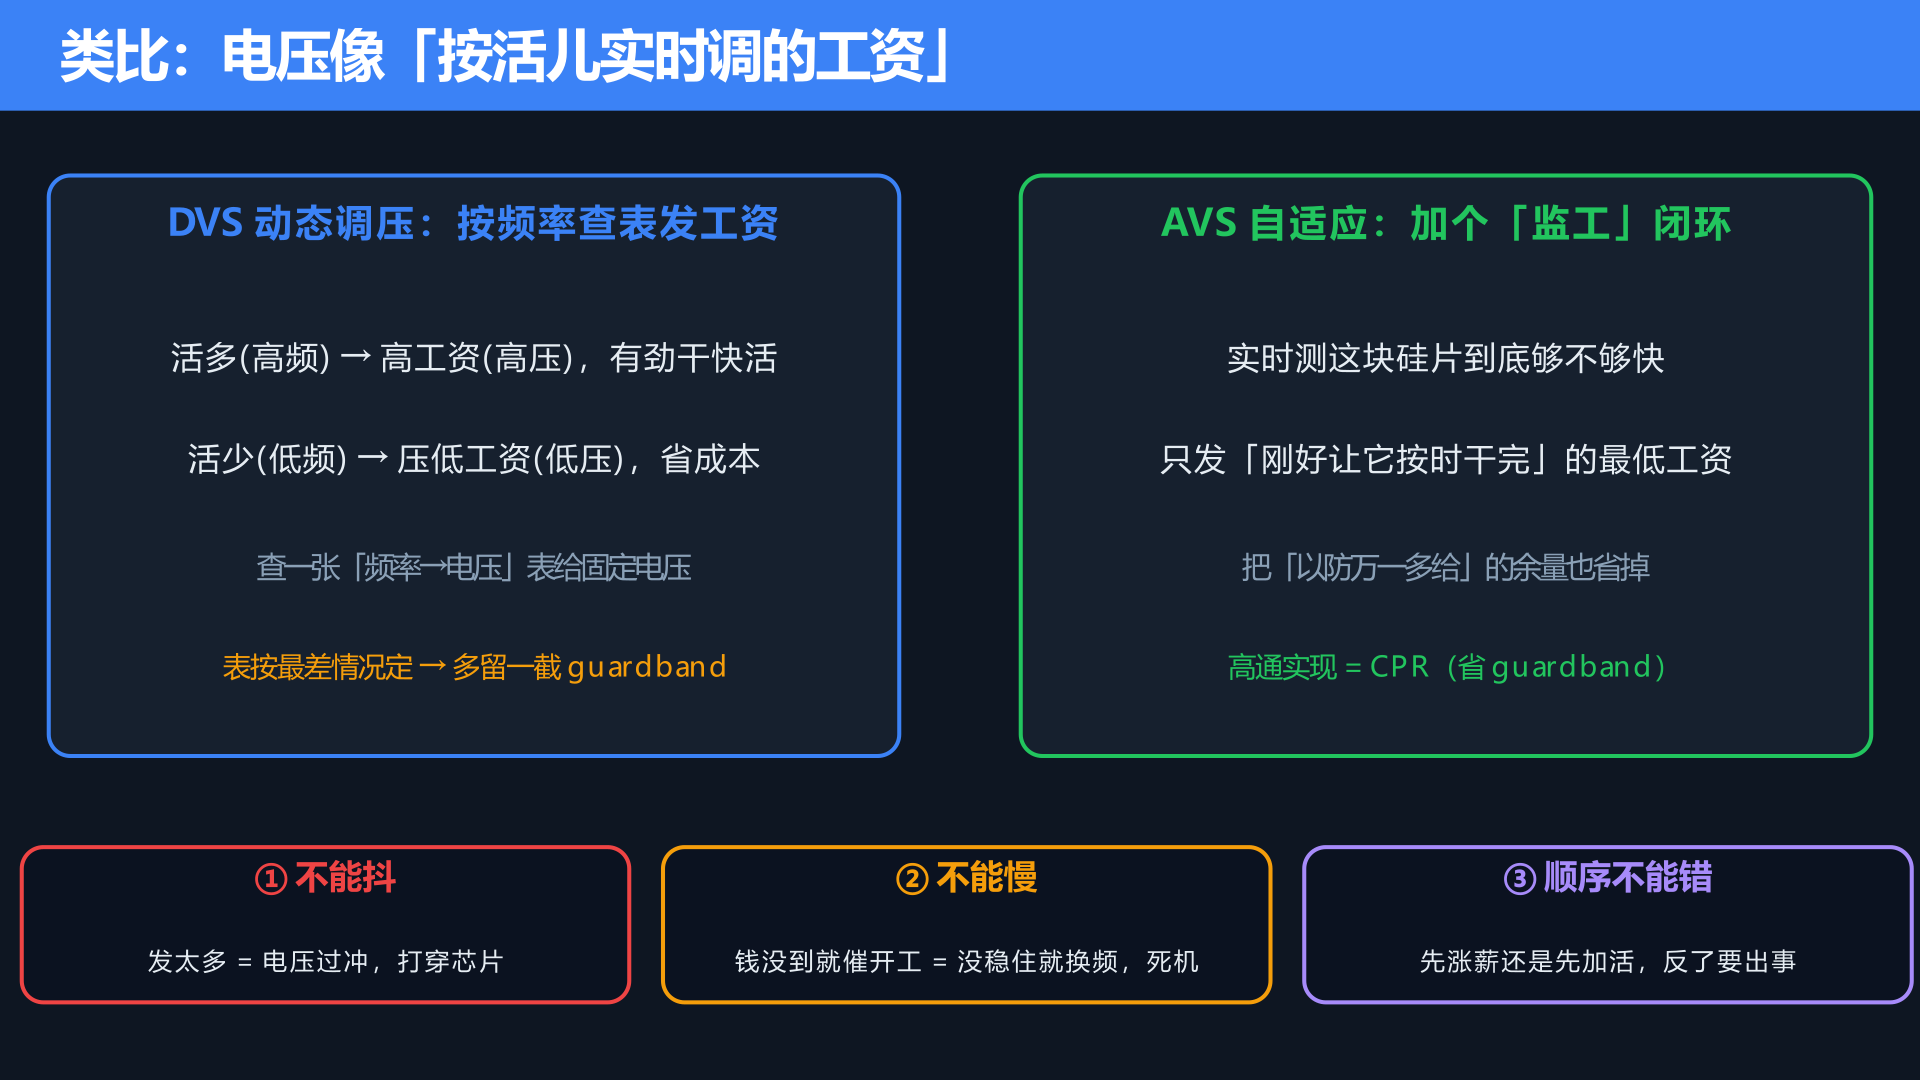
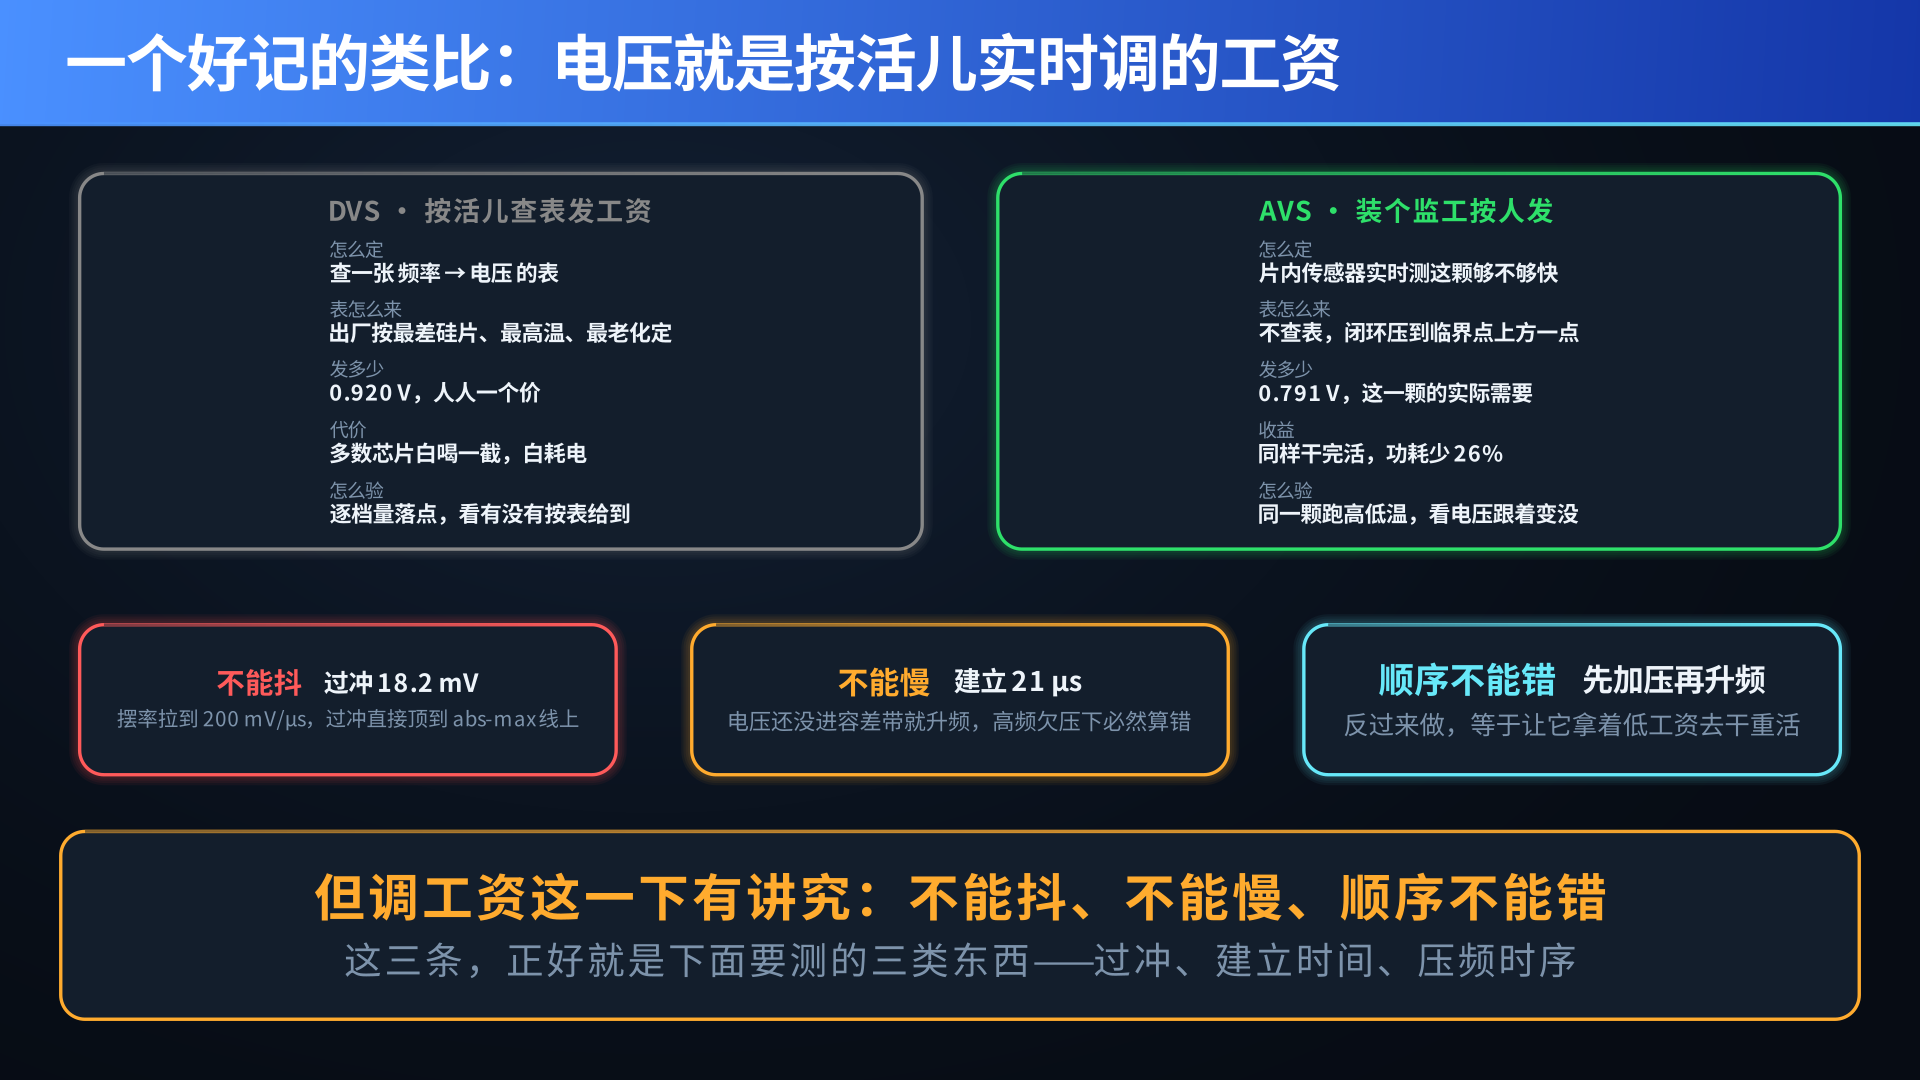
pi01：同步末四张 v3 配图与重写的图注
Copilot-Session: 146125e5-149c-4b5e-aded-743cd7f5dc29

diff --git a/articles/pi01.md b/articles/pi01.md
@@ -58,7 +58,7 @@ outline: [2,3]
 
 但"调工资"这一下有讲究：**①不能抖**（一下发太多——电压过冲，可能打穿芯片）；**②不能慢**（钱还没到账就催开工——电压没稳住就换频，直接死机）；**③顺序不能错**（先涨薪还是先加活，反了要出事）。这三条，正好对应下面要测的三类东西。
 
-![图2：类比图——雇工干活。左：DVS 按活儿多少查表发工资（高频高压/低频低压）；右：AVS 加了个"监工"实时测硅片够不够快，只发最低够用工资，省掉 guardband。下方三条红字警示：①不能抖(过冲) ②不能慢(建立时间) ③顺序不能错(压频时序)](/images/pi01/ill02_analogy.png)
+![图2：DVS 与 AVS 的类比对照。左卡（DVS · 按活儿查表发工资）：查一张频率→电压表，表按最差硅片/最高温/最老化定，人人发 0.920 V，代价是多数芯片白喝一截；右卡（AVS · 装个监工按人发）：片内传感器实时测这颗够不够快，闭环压到 0.791 V，同样干完活功耗少 26%。下方三条警示卡：不能抖（过冲 18.2 mV）、不能慢（建立 21 µs）、顺序不能错（先加压再升频）](/images/pi01/ill02_analogy.png)
 
 ---
 
@@ -148,7 +148,7 @@ outline: [2,3]
 
 > **一句话记住：动态调压要测的是"每一次跳变 + 每一个档"，判据是 OPP×{静态精度、过冲、建立时间、压摆率} 的矩阵，不是一行固定限值。其中睿频档的建立时间赶不上换频 = 死机，是头号生死项。**
 
-![图6：OPP 判据矩阵填数示例（自制零涉密）。表格：纵轴 P-idle/P-nom/P-turbo/retention 四档，横轴 频率/目标电压/精度/过冲预算/建立时间/压摆率，每格填示意数值。用红色高亮 P-turbo 行的"过冲不越1.15V"和"建立时间<10µs"两格，标注"最危险/最难的一关"](/images/pi01/ill06_matrix.png)
+![图6：OPP × 判据矩阵。四行 OPP（P-idle 0.8 GHz/0.60 V、P-nom 2.4 GHz/0.85 V、P-turbo 3.5 GHz/1.05 V、retention 0.45 V）× 六列判据（频率、目标电压、静态精度、过冲/下冲预算、建立时间、压摆率）。红框高亮 P-turbo 行的"过冲不越 1.15 V"与"建立时间 < 10 µs"两格——睿频档离 abs-max 只剩 100 mV，留给电压稳定的窗口也最短。竖着看每一档都要单独验，横着看同一档四关缺一不可](/images/pi01/ill06_matrix.png)
 
 ---
 
@@ -163,7 +163,7 @@ outline: [2,3]
 
 这不是测某个电压值准不准，而是测**两个事件的先后顺序和间隔对不对**——属于**时序（timing）**问题。测的时候要**同屏对齐看**：一路解调压总线命令（什么时候下的令），一路看电压轨真正响应（什么时候到位），再对照频率切换的时刻，验证顺序没错、间隔留够。
 
-![图7：压频协调时序。上路"升频"：时间轴上 先"加压命令"→电压爬升并稳定→再"升频"，标绿✓；下方画一个反例 先升频后加压 标红✗"高频欠压→死机"。下路"降频"：先"降频"→再"降压"标绿✓。用箭头标出"顺序"和"间隔"两个要点](/images/pi01/ill07_seq.png)
+![图7：压频协调时序，双屏同轴对比。每屏两条轨：琥珀 = 电压轨，绿/红 = 频率轨（2.4 → 3.5 GHz），青色虚线是"门槛 1.034 V"（跑 3.5 GHz 所需的最低电压）。左（✓ 正确）：加压命令 10 µs → 电压进带 31 µs → 升频命令 45 µs，进带后又等了 14 µs 才升频，安全间隔充足；右（✗ 反例）：加压命令同样在 10 µs，但 18 µs 就下升频命令，那一刻电压才 0.914 V，离门槛还差 120 mV，之后整段都是高频欠压 → 算错 / 死机](/images/pi01/ill07_seq.png)
 
 > **一句话记住：升频先加压后升频、降频先降频后降压——这是"顺序对不对"的时序问题，不是"电压准不准"的数值问题。解总线命令 + 看电压响应 + 对照换频时刻，三者同屏对齐验证。**
 
@@ -351,7 +351,7 @@ VCORE 这种低压大电流轨，输出端除了开关纹波，还耦合着**开
 
 这张表里加粗的每一项，都是**普通电源 IC 根本不会碰到、这里新增**的——这也是读者最该带走的"增量清单"。
 
-![图10：vs 普通电源IC。左"普通定压电源"：一条平线 + 一行判据表(Vout精度/纹波/效率各一个固定限值)。右"动态调压"：阶梯跳变波形 + 一张 OPP×测试项 矩阵表。中间大箭头标"判据从一行→一张矩阵，还多了时序类判据"](/images/pi01/ill10_vs.png)
+![图10：和普通定压电源 IC 的逐项对照。左卡（普通定压电源 IC）：电压是定值 1.0V±3%、单轨输出一个点、一行固定限值、自由/边沿触发、普通无源探头即可、上电即测、典型失效是纹波超标与精度飘；右卡（动态调压 AVS/DVS）：电压是动态变量逐 OPP 跳、单轨 × 每一个 OPP 档、OPP × 判据的矩阵、总线调压命令或跳变沿触发、要有源轨探头 + 总线协议解码、要固件/OS 强制切 OPP、典型失效是过冲打穿与没稳住就换频死机。判据从 3 个固定限值，变成 12 格要逐格验的矩阵](/images/pi01/ill10_vs.png)
 
 > **一句话记住：动态调压打破了普通电源"电压是定值"的假设——判据从一行固定限值升级成 OPP×测试项矩阵，多出跳变过程、压频时序、总线解码这些普通 IC 没有的活，测量也进入"命令+波形"的混合域。**
 
